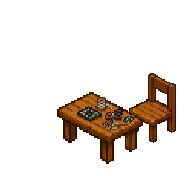
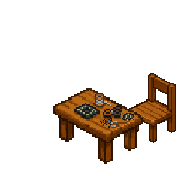
Refine table scale, mobile scene size and optical alignment

Changed region(s): [[0.25, 0.483, 0.75, 0.9375]]

diff --git a/src/components/Workbench.tsx b/src/components/Workbench.tsx
@@ -4,8 +4,8 @@ import { useEffect, useRef } from 'react';
 
 const REACTION_DURATIONS = [100, 120, 120, 110, 110, 110, 140, 140, 500, ...Array(8).fill(120), ...Array(6).fill(120)];
 const REACTION_MS = REACTION_DURATIONS.reduce((a, b) => a + b, 0);
-// Center the visible idle silhouette (x=57..156), excluding transparent padding.
-const SCENE_CENTER_X = (57 + 156) / 2;
+// Optical correction: shift the scene slightly left of its former alignment.
+const SCENE_CENTER_X = (57 + 156) / 2 + 3;
 function reactionFrame(elapsed: number) {
   let end = 0;
   for (let i = 0; i < REACTION_DURATIONS.length; i++) {
@@ -82,9 +82,11 @@ export default function Workbench() {
       if (alive && phase !== 'gone' && !(reduced.matches && phase === 'idle')) raf = requestAnimationFrame(tick);
     };
     const resize = () => {
-      width = canvas.getBoundingClientRect().width; scale = 2; origin = Math.round(width / scale / 2 - SCENE_CENTER_X);
+      width = canvas.getBoundingClientRect().width;
+      scale = matchMedia('(max-width: 767px)').matches ? 1.5 : 2;
+      origin = Math.round(width / scale / 2 - SCENE_CENTER_X);
       const dpr = window.devicePixelRatio || 1;
-      canvas.width = Math.round(width * dpr); canvas.height = Math.round(352 * dpr);
+      canvas.width = Math.round(width * dpr); canvas.height = Math.round(176 * scale * dpr);
       ctx.setTransform(dpr, 0, 0, dpr, 0, 0); draw(performance.now());
     };
     const isScene = (e: PointerEvent | MouseEvent) => {
@@ -107,7 +109,7 @@ export default function Workbench() {
     canvas.addEventListener('click', click); canvas.addEventListener('pointermove', move); canvas.addEventListener('keydown', key);
     window.addEventListener('resize', resize); reduced.addEventListener('change', motionChange);
     Promise.all(['idle', 'reaction', 'walk', 'chairRest', 'table', 'empty'].map(async name => {
-      const im = new Image(); im.src = `/media/workbench/v3/${name === 'chairRest' ? 'chair-rest' : name}.png?revision=6`; await im.decode(); images[name] = im;
+      const im = new Image(); im.src = `/media/workbench/v3/${name === 'chairRest' ? 'chair-rest' : name}.png?revision=7`; await im.decode(); images[name] = im;
     })).then(() => {
       if (!alive) return;
       setPhase('idle'); start = performance.now(); idleEpoch = start; resize(); raf = requestAnimationFrame(tick);
@@ -117,7 +119,7 @@ export default function Workbench() {
       canvas.removeEventListener('click', click); canvas.removeEventListener('pointermove', move); canvas.removeEventListener('keydown', key);
     };
   }, []);
-  return <div id="workbench" style={{ height: 352, position: 'relative' }}>
-    <canvas ref={ref} role="button" tabIndex={0} data-state="loading" aria-label="Edoardo soldering at his workbench" style={{ width: '100vw', height: 352, position: 'absolute', left: 'calc(50% - 50vw)', imageRendering: 'pixelated', touchAction: 'pan-y' }} />
+  return <div id="workbench" className="relative h-[264px] md:h-[352px]">
+    <canvas ref={ref} role="button" tabIndex={0} data-state="loading" aria-label="Edoardo soldering at his workbench" style={{ width: '100vw', height: '100%', position: 'absolute', left: 'calc(50% - 50vw)', imageRendering: 'pixelated', touchAction: 'pan-y' }} />
   </div>;
 }

diff --git a/scripts/build-workbench-v3.py b/scripts/build-workbench-v3.py
@@ -75,6 +75,15 @@ TABLE_OFFSET=(32,11)
 def place_table(layer):
  out=blank();out.alpha_composite(layer,TABLE_OFFSET);return out
 table=place_table(table);table_after=place_table(table_after)
+# Grow both table layers around the same bottom-right corner in screen space.
+TABLE_SCALE=1.05
+table_bounds=table.getbbox()
+def scale_table(layer):
+ left,top,right,bottom=table_bounds
+ tile=layer.crop(table_bounds)
+ tile=tile.resize((round(tile.width*TABLE_SCALE),round(tile.height*TABLE_SCALE)),N)
+ out=blank();out.alpha_composite(tile,(right-tile.width,bottom-tile.height));return out
+table=scale_table(table);table_after=scale_table(table_after)
 chairposes=[chair]*8
 if (SRC/'chair.png').exists():
  chaircells=cells('chair',4,3)
